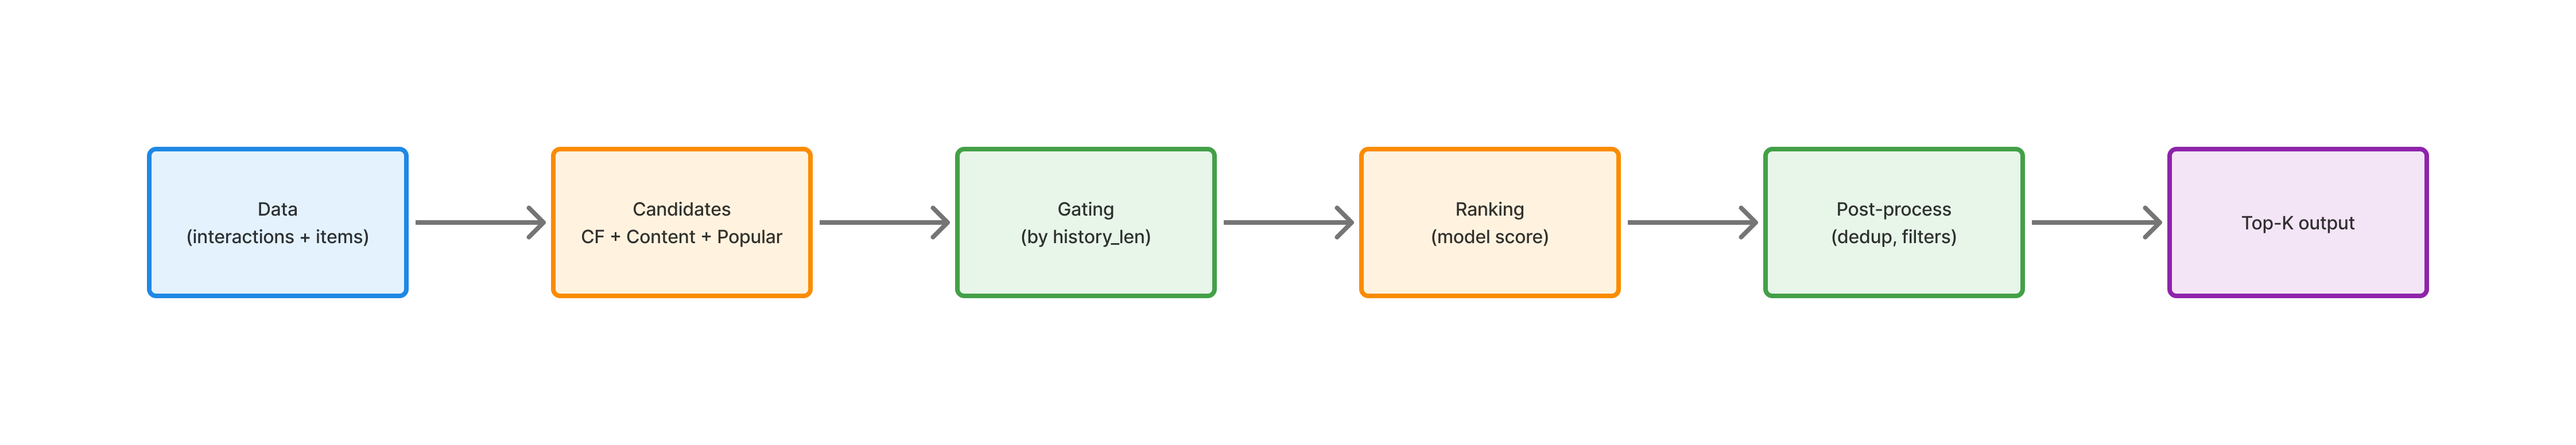
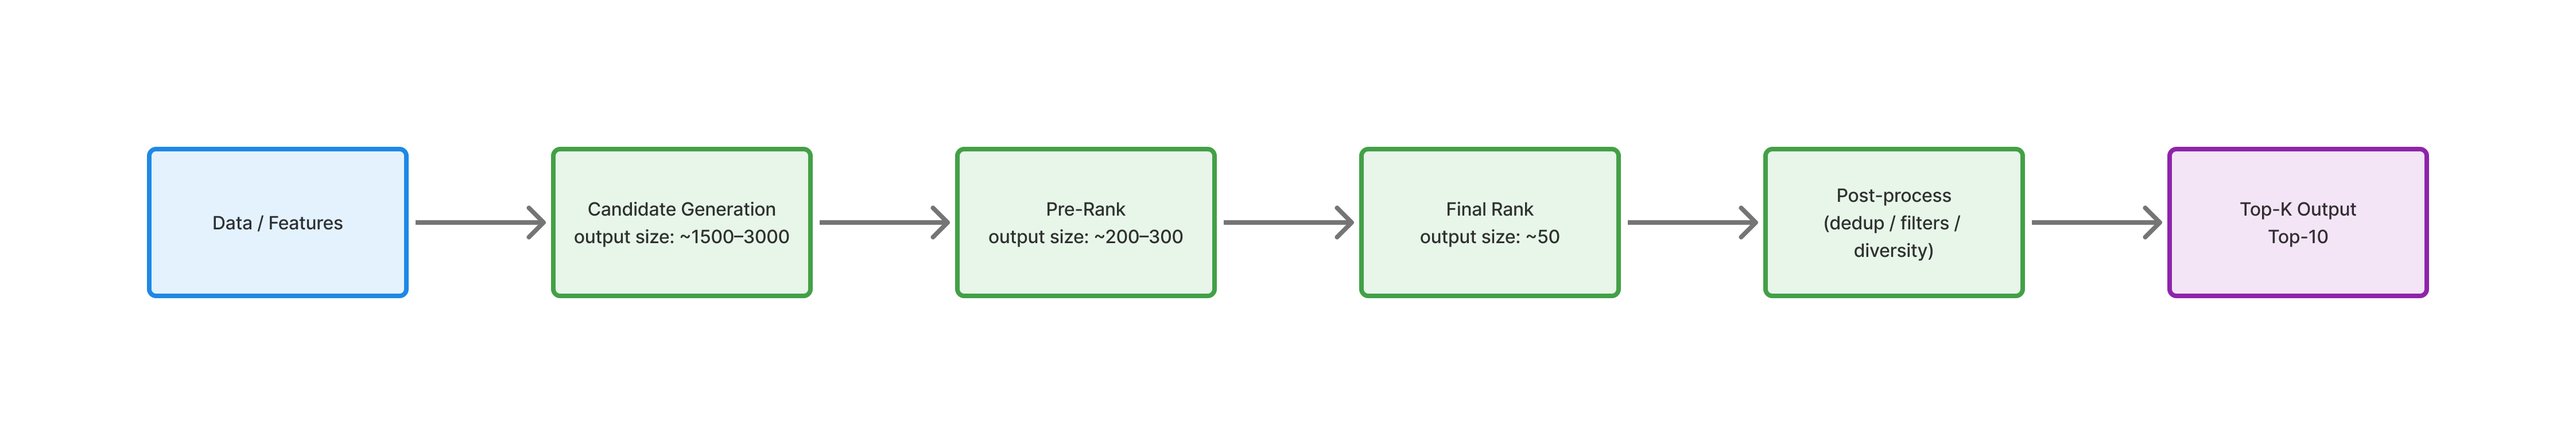
--update section 3 & 4

diff --git a/docs/ML_System_Design.md b/docs/ML_System_Design.md
@@ -46,27 +46,27 @@
 
   - Делаем базовую версию (MVP) рекомендаций
   - Показываем их в нескольких местах: например, на главной, на странице книги и в корзине
-  - Готовим дизайн A/B-пилота на части пользователей (контроль/тест, метрики, условия успеха)
-  - Фиксируем офлайн-метрики и готовим критерии допуска модели в пилот
+  - Проверяем MVP в формате эмулированного пилота (`offline replay`: `control vs test`)
+  - Фиксируем офлайн-метрики и критерии допуска в следующий этап
+  - Готовим дизайн целевого `online A/B` как roadmap (контроль/тест, метрики, условия успеха)
   - Готовим возможность быстро откатиться, если пилот пойдёт не так
 
 - **Как проходит пилот?**
 
-  - В онлайне (целевой формат):
- 
-    - показываем блок с рекомендациями
-    - фиксируем, что пользователь его увидел
-    - отслеживаем, кликает ли он и покупает ли что-то
+  - В текущей итерации (фактический формат): эмулированный пилот `offline replay`
+    - контроль: действующий baseline;
+    - тест: трехступенчатый MVP;
+    - сравнение по фиксированному holdout-набору и единому протоколу метрик.
 
-  - В офлайне (целевой формат):
- 
-    - если можем понять, кто пользователь, добавляем его покупки в историю
-    - потом используем это для рекомендаций онлайн
-    - если не можем идентифицировать — просто не учитываем офлайн в MVP
+  - В следующей итерации (целевой формат): `online A/B`
+    - показываем блок с рекомендациями в реальном трафике;
+    - фиксируем показы, клики и покупки;
+    - считаем эффект на уровне пользователя/сессии.
      
 - **Когда считаем пилот успешным**
 
-  Пилот считаем успешным, если пользователи начинают больше покупать (например, растет выручка на сессию), а при этом *не падает конверсия, не растут возвраты и система работает стабильно*.
+  - Для текущей итерации (`offline replay`): модель допускается дальше, если выполняются пороги по `NDCG@10`, `Recall@10`, `ColdNDCG@10`, `ColdRecall@10` и нет критичной деградации warm-среза.
+  - Для следующей итерации (`online A/B`): пилот успешен, если растет выручка на сессию, при этом не ухудшается доля сессий с покупкой и система работает стабильно.
 
 - **Бизнес-метрики текущей итерации (простыми словами)**
 
@@ -98,12 +98,13 @@
   В этой итерации собираем рабочий MVP рекомендаций для книжного интернет-магазина: персональные user2item рекомендации с устойчивостью к cold-start у книг.
 
   В рамках итерации:
-  - делаем два простых ориентира: случайные/популярные рекомендации и базовую модель по похожему поведению пользователей;
-  - делаем основную модель, которая сочетает поведение пользователей и данные о книгах, чтобы рекомендовать и новые книги тоже;
+  - реализуем трехступенчатую рекомендательную систему: отбор кандидатов -> предранжирование -> финальное ранжирование + постобработка;
+  - используем несколько источников кандидатов (`Item2Item`, `Content TF-IDF`, `Popular/Trending`), чтобы не терять cold-книги;
+  - на этапе предранжирования сокращаем пул кандидатов до управляемого размера, на финальном ранжировании формируем точный `top-N`;
   - считаем обязательные метрики: `NDCG@10`, `Recall@10`, `Coverage@10` и отдельные cold-метрики (`ColdNDCG@10`, `ColdRecall@10`);
-  - делаем валидацию отдельно для warm и cold книг, потому что в тесте они несбалансированы;
+  - делаем валидацию отдельно для warm и cold книг, чтобы не маскировать ошибки на cold-сегменте;
   - сохраняем обученные модели и артефакты запуска/инференса (метрики, конфиг, manifest; при необходимости — выгрузки рекомендаций);
-  - готовим выдачу топ-N рекомендаций для блока в интерфейсе и запасной вариант: если модель недоступна, показываем популярные или новые книги.
+  - готовим выдачу top-N рекомендаций для блока в интерфейсе и запасной вариант: если модель недоступна, показываем популярные или новые книги.
 
 - **Какие бизнес-требования закрывает текущая итерация**
   - появляется персонализация вместо одинаковой выдачи для всех;
@@ -291,71 +292,75 @@ J --> K["Подготовка к A/B пилоту"]
 > В текущей итерации пилот выполняется как **эмуляция (offline replay)**, так как нет интернет-магазина и реального пользовательского трафика. Поэтому разделы 3.1-3.3 ниже фиксируют целевой online A/B-дизайн для следующего этапа, а фактическая проверка сейчас делается офлайн как сравнение `control vs test` на фиксированном holdout-наборе.
   
 #### 3.1. Способ оценки пилота  
-  
-- В целевом продуктовом контуре пилот проводим как классический A/B тест на реальном трафике.
-- Делим пользователей случайно на две группы:
-  - **контроль**: текущая логика рекомендаций (или популярные книги, если текущей персонализации нет);
-  - **тест**: новая модель рекомендаций из MVP.
-- Пользователь всегда остается в своей группе на весь период пилота.
-- Считаем эффект на уровне пользователя/сессии, а не по отдельным кликам, чтобы не завышать результат.
-- Перед запуском фиксируем:
-  - основную целевую метрику (рост покупок/выручки на сессию);
-  - защитные метрики (конверсия в покупку, доля возвратов, задержка ответа, ошибки сервиса);
-  - минимальную длительность теста и минимальный размер выборки;
-  - статистический дизайн: `alpha`, `power`, `MDE`, правило остановки (для MVP — fixed horizon без досрочных остановок по промежуточным p-value);
-  - окно атрибуции покупки к рекомендациям (например, в пределах той же сессии или фиксированного окна после клика).
-- В ходе пилота каждый день проверяем корректность эксперимента:
-  - равномерность разбиения групп;
-  - отсутствие `SRM` (sample ratio mismatch);
-  - целостность логов;
-  - отсутствие критичных перекосов по сегментам.
-- Итоговая оценка: сравниваем контроль и тест, смотрим статистическую значимость и практическую полезность эффекта.
+
+- В этой итерации сравниваем именно трехступенчатый MVP-контур из пункта 2:
+  - **ступень 1**: отбор кандидатов (`Item2Item + Content + Popular/Trending`);
+  - **ступень 2**: предранжирование (быстрое сокращение пула);
+  - **ступень 3**: финальное ранжирование + постобработка и выдача `top-10`.
+
+- Текущий формат проверки (сейчас):
+  - **offline replay** на фиксированном holdout-наборе;
+  - **контроль**: действующий baseline;
+  - **тест**: трехступенчатый MVP;
+  - сравнение качества по одинаковому протоколу метрик и срезов.
+
+- Целевой продуктовый формат (следующий этап):
+  - онлайн A/B тест на реальном трафике;
+  - пользователь закреплен за группой на весь период эксперимента;
+  - эффект считаем на уровне пользователя/сессии.
+
+- Для согласованности с архитектурой из пункта 2 перед запуском фиксируем операционные проверки:
+  - размер пула после ступени 1 (отбор кандидатов);
+  - размер пула после ступени 2 (предранжирование);
+  - долю пустых выдач после ступени 3;
+  - время ответа по ступеням и суммарно.
   
 #### 3.2. Что считаем успешным пилотом  
-  
-Пилот считаем успешным, если одновременно выполняются условия ниже:
 
-- Основная метрика:
-  - рост относительно контроля по **выручке на сессию** не ниже заранее зафиксированного `MDE` (например, `+2%` для пилота; точное значение фиксируется после оценки базового уровня и доступного трафика).
-- Дополнительная бизнес-метрика:
-  - доля сессий с покупкой (подтверждающий сигнал; не требуем значимого роста, но не допускаем статистически значимого ухудшения).
-- Качество рекомендаций в продукте:
-  - CTR блока рекомендаций не ухудшается (или растет);
-  - не падает покрытие каталога/long-tail share ниже заранее заданного порога (чтобы не показывать только одни и те же книги).
-- Защитные метрики:
-  - конверсия в покупку не ухудшается статистически значимо;
-  - доля возвратов не растет выше допустимого порога;
-  - задержка ответа сервиса рекомендаций остается в допустимом коридоре (например, `p95 <= 200 мс`);
-  - нет роста технических ошибок выше порога (например, error rate < `1%` и без деградации относительно контроля).
-- Условия достоверности:
-  - группы в A/B тесте сбалансированы;
-  - длительности теста хватило, чтобы покрыть недельную сезонность;
-  - эффект подтверждается статистически (`p < alpha`) и имеет практический смысл (не ниже целевого MDE).
+Критерии успеха
 
-Если основная метрика растет, а защитные метрики стабильны, принимаем решение о расширении пилота на больший трафик.
+1) Успех на offline (до пилота)
+- Новая 3-ступенчатая система лучше текущей по `NDCG@10` и `Recall@10`.
+- По cold-книгам есть рост `ColdNDCG@10` и `ColdRecall@10` (это обязательно).
+- `Coverage@10` не падает ниже согласованного минимума.
+- По warm-книгам нет заметного ухудшения.
+
+2) Успех на online A/B (в пилоте)
+- Выручка на сессию в тесте выше контроля не меньше чем на целевой порог (`MDE`).
+- Доля сессий с покупкой не ухудшается.
+- Клики по блоку рекомендаций не ухудшаются.
+- Система работает стабильно: задержка и ошибки в допустимых пределах.
+
+3) Техническая проверка 3 ступеней
+- После отбора кандидатов список достаточно большой.
+- После предранжирования остается достаточно разных книг.
+- После финального ранжирования и фильтров у пользователя всегда есть непустой `top-10`.
+
+Если все условия выше выполняются, расширяем пилот на большую долю трафика.
   
 #### 3.3. Подготовка пилота  
-  
-- На этапе пилота выбираем вычислительно простой и устойчивый вариант, без «тяжелых» моделей.
-- Что готовим до запуска:
-  - стабильную версию модели и зафиксированные параметры;
-  - выгрузку кандидатов/рекомендаций для тестовой группы;
-  - резервный сценарий (популярные/новинки), если сервис модели недоступен;
-  - для будущего продуктового пилота: логирование ключевых событий (показ, позиция, клик, корзина, покупка), версии модели и группы эксперимента.
-- Ограничения по ресурсам в пилоте:
-  - пересчет модели батчево (например, раз в сутки), без сложного онлайн-переобучения;
-  - ограничиваем количество признаков и размер кандидатов, чтобы держать приемлемую задержку;
-  - сначала запускаем на ограниченной доле трафика, затем расширяем при стабильных метриках.
-- Как оцениваем вычислительную стоимость:
-  - замеряем время обучения;
-  - замеряем время подготовки рекомендаций;
-  - замеряем задержку ответа в тестовой группе;
-  - оцениваем объем хранения логов и артефактов моделей.
-- План по шагам:
-  - шаг 1: технический прогон на малом трафике и проверка логов;
-  - шаг 2: запуск пилота на ограниченной аудитории;
-  - шаг 3: промежуточный контроль метрик и качества данных;
-  - шаг 4: финальный анализ и решение: масштабируем / дорабатываем / откатываем.
+
+- Подготовка пилота строится по ступеням новой архитектуры:
+  - готовим артефакты отбора кандидатов (правила, параметры, источники);
+  - готовим артефакты предранжирования (модель/веса, порог отсечения);
+  - готовим артефакты финального ранжирования и постобработки (модель, фильтры, дедуп, fallback).
+
+- Что фиксируем до запуска:
+  - версию трехступенчатого контура и все параметры ступеней;
+  - целевые размеры пулов по ступеням (`top-N` после 1-й и 2-й ступени);
+  - правила бизнес-фильтров и резервный сценарий (`популярные/новинки`);
+  - единый шаблон отчета по метрикам и срезам (`overall/warm/cold`).
+
+- Ограничения MVP:
+  - батчевый пересчет без сложного online-learning;
+  - ограничиваем число признаков и размер пулов, чтобы удержать расчет в разумное время;
+  - запускаем сначала на ограниченной доле трафика, затем масштабируем.
+
+- План запуска:
+  - шаг 1: технический прогон и проверка корректности всех 3 ступеней;
+  - шаг 2: сравнение `control vs test` в `offline replay` (обязательный этап текущей итерации);
+  - шаг 3: решение о допуске в `online A/B` (следующий этап, при наличии трафика);
+  - шаг 4: ограниченный продуктовый запуск и финальный анализ: масштабируем / дорабатываем / откатываем.
 
 ### 4. Внедрение в production (опционально)    
 
@@ -363,19 +368,21 @@ J --> K["Подготовка к A/B пилоту"]
   
 #### 4.1. Архитектура решения   
   
-- Для прод-варианта используем простую двухшаговую схему: сначала отбор кандидатов, потом их финальная сортировка.
+- Для прод-варианта используем трехступенчатую схему: отбор кандидатов, предранжирование и финальное ранжирование с постобработкой.
 - Основные блоки:
   - **Сервис рекомендаций**: принимает запрос от продукта и возвращает `top-N` книг.
   - **Хранилище признаков/витрина**: хранит подготовленные признаки пользователей и книг.
   - **Сервис кандидатов**: быстро собирает короткий список подходящих книг.
-  - **Сервис ранжирования**: пересчитывает и упорядочивает кандидатов по релевантности.
+  - **Сервис предранжирования**: быстро сокращает пул кандидатов до управляемого размера.
+  - **Сервис финального ранжирования**: пересчитывает и упорядочивает кандидатов по релевантности.
+  - **Сервис постобработки**: применяет фильтры, дедуп и правила формирования итогового `top-N`.
   - **Логи и мониторинг**: пишут события показа/клика/покупки и технические метрики.
   - **Резервный сценарий**: если модель недоступна, отдаем популярные/новые книги.
 - Поток запроса:
-  - продукт -> сервис рекомендаций -> отбор кандидатов -> сортировка -> бизнес-фильтры -> ответ продукту.
+  - продукт -> сервис рекомендаций -> отбор кандидатов -> предранжирование -> финальное ранжирование -> постобработка и бизнес-фильтры -> ответ продукту.
 
 - Схема inference-контура (MVP):
-  - `Data -> Candidates -> Gating -> Ranking -> Post-process -> Top-K`.
+  - `Data -> Candidates -> Pre-Rank -> Final Rank -> Post-process -> Top-K`.
 
 ![Схема inference-контура](images/pipeline.png)
   
